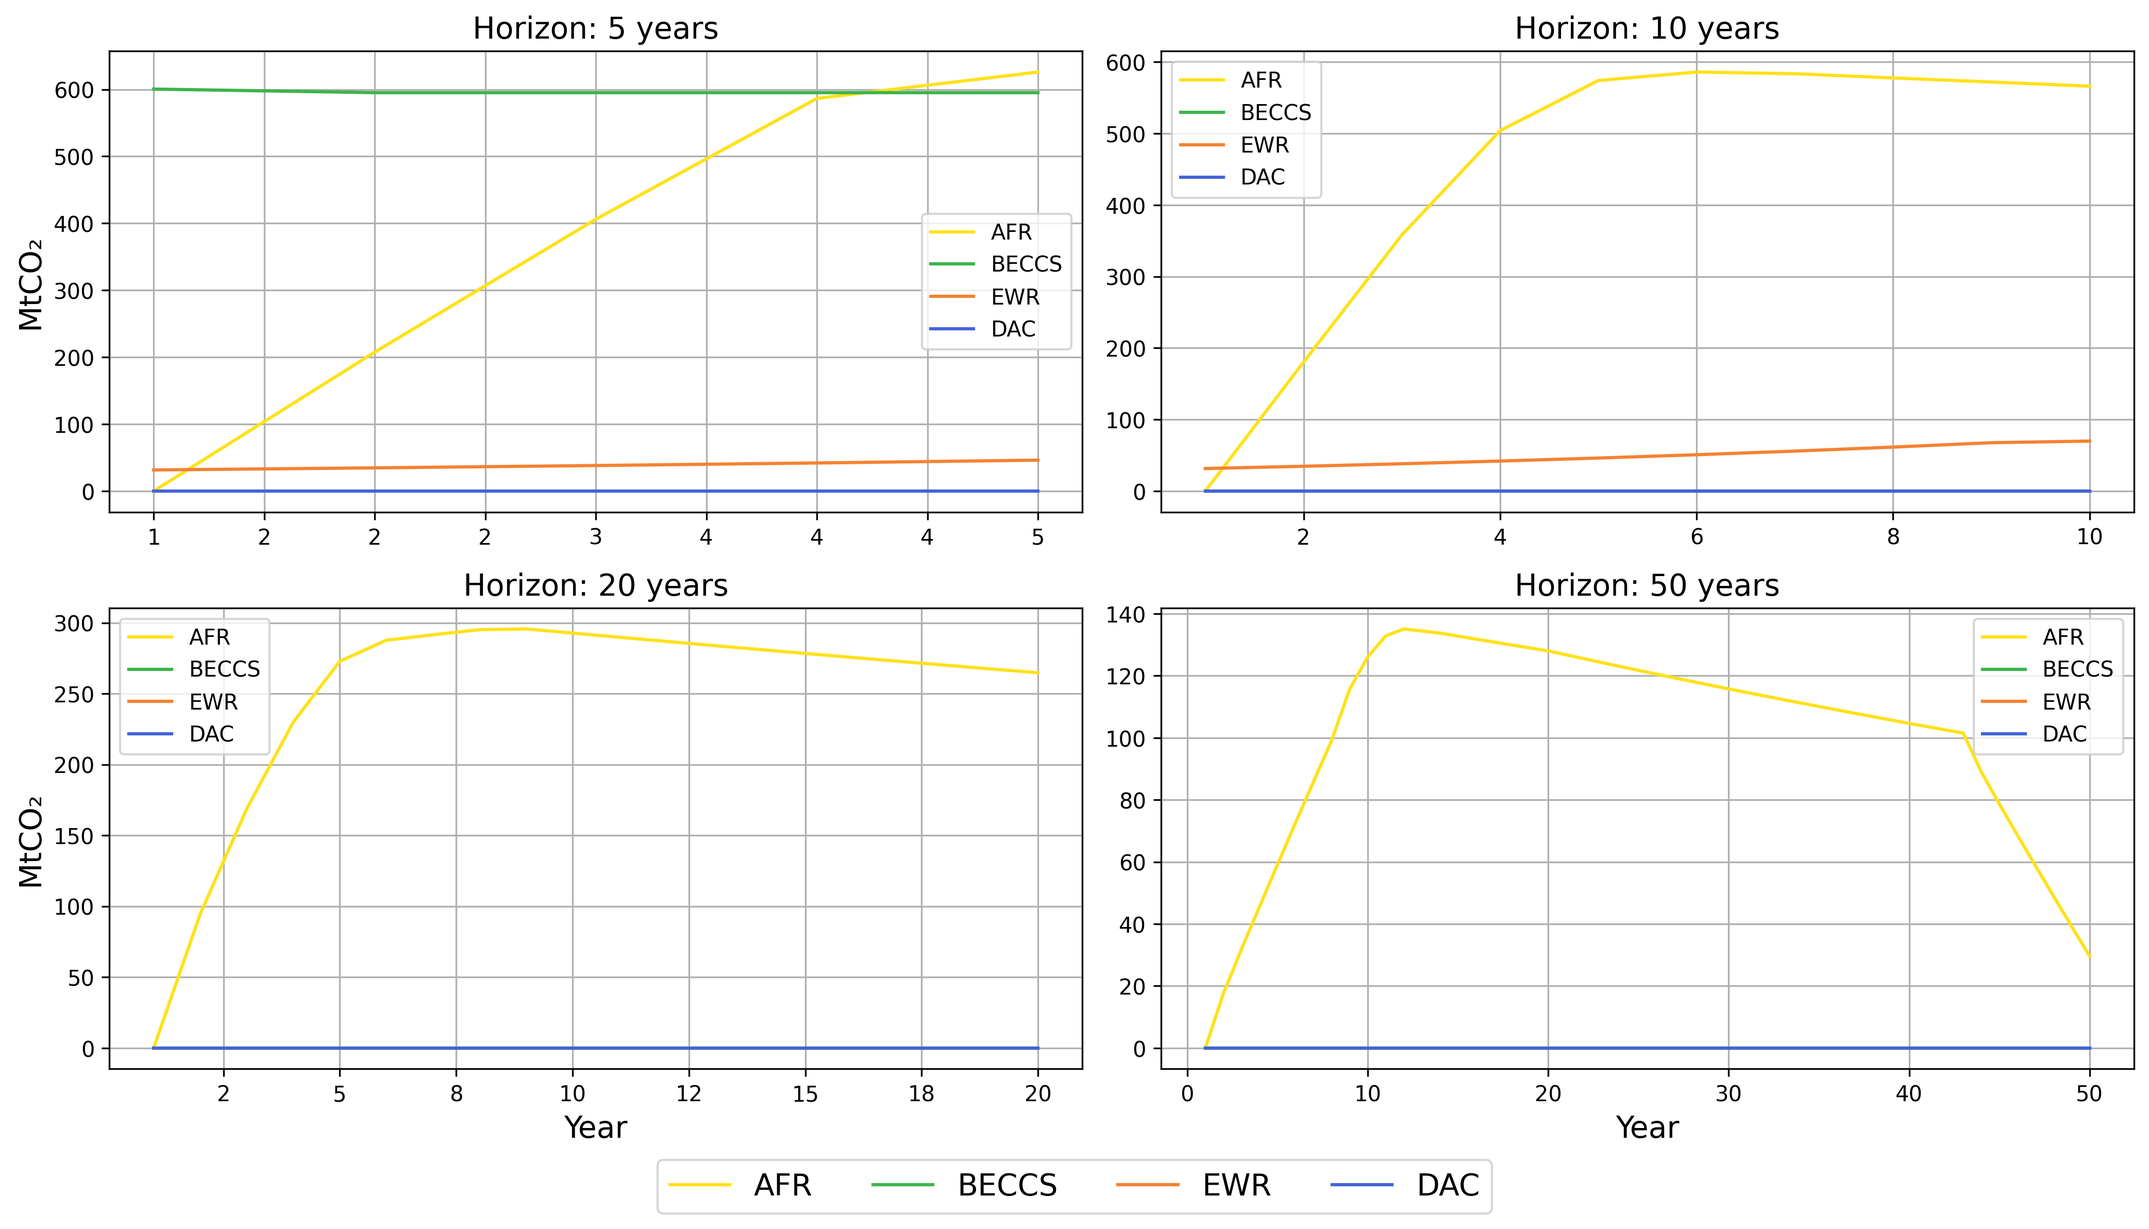
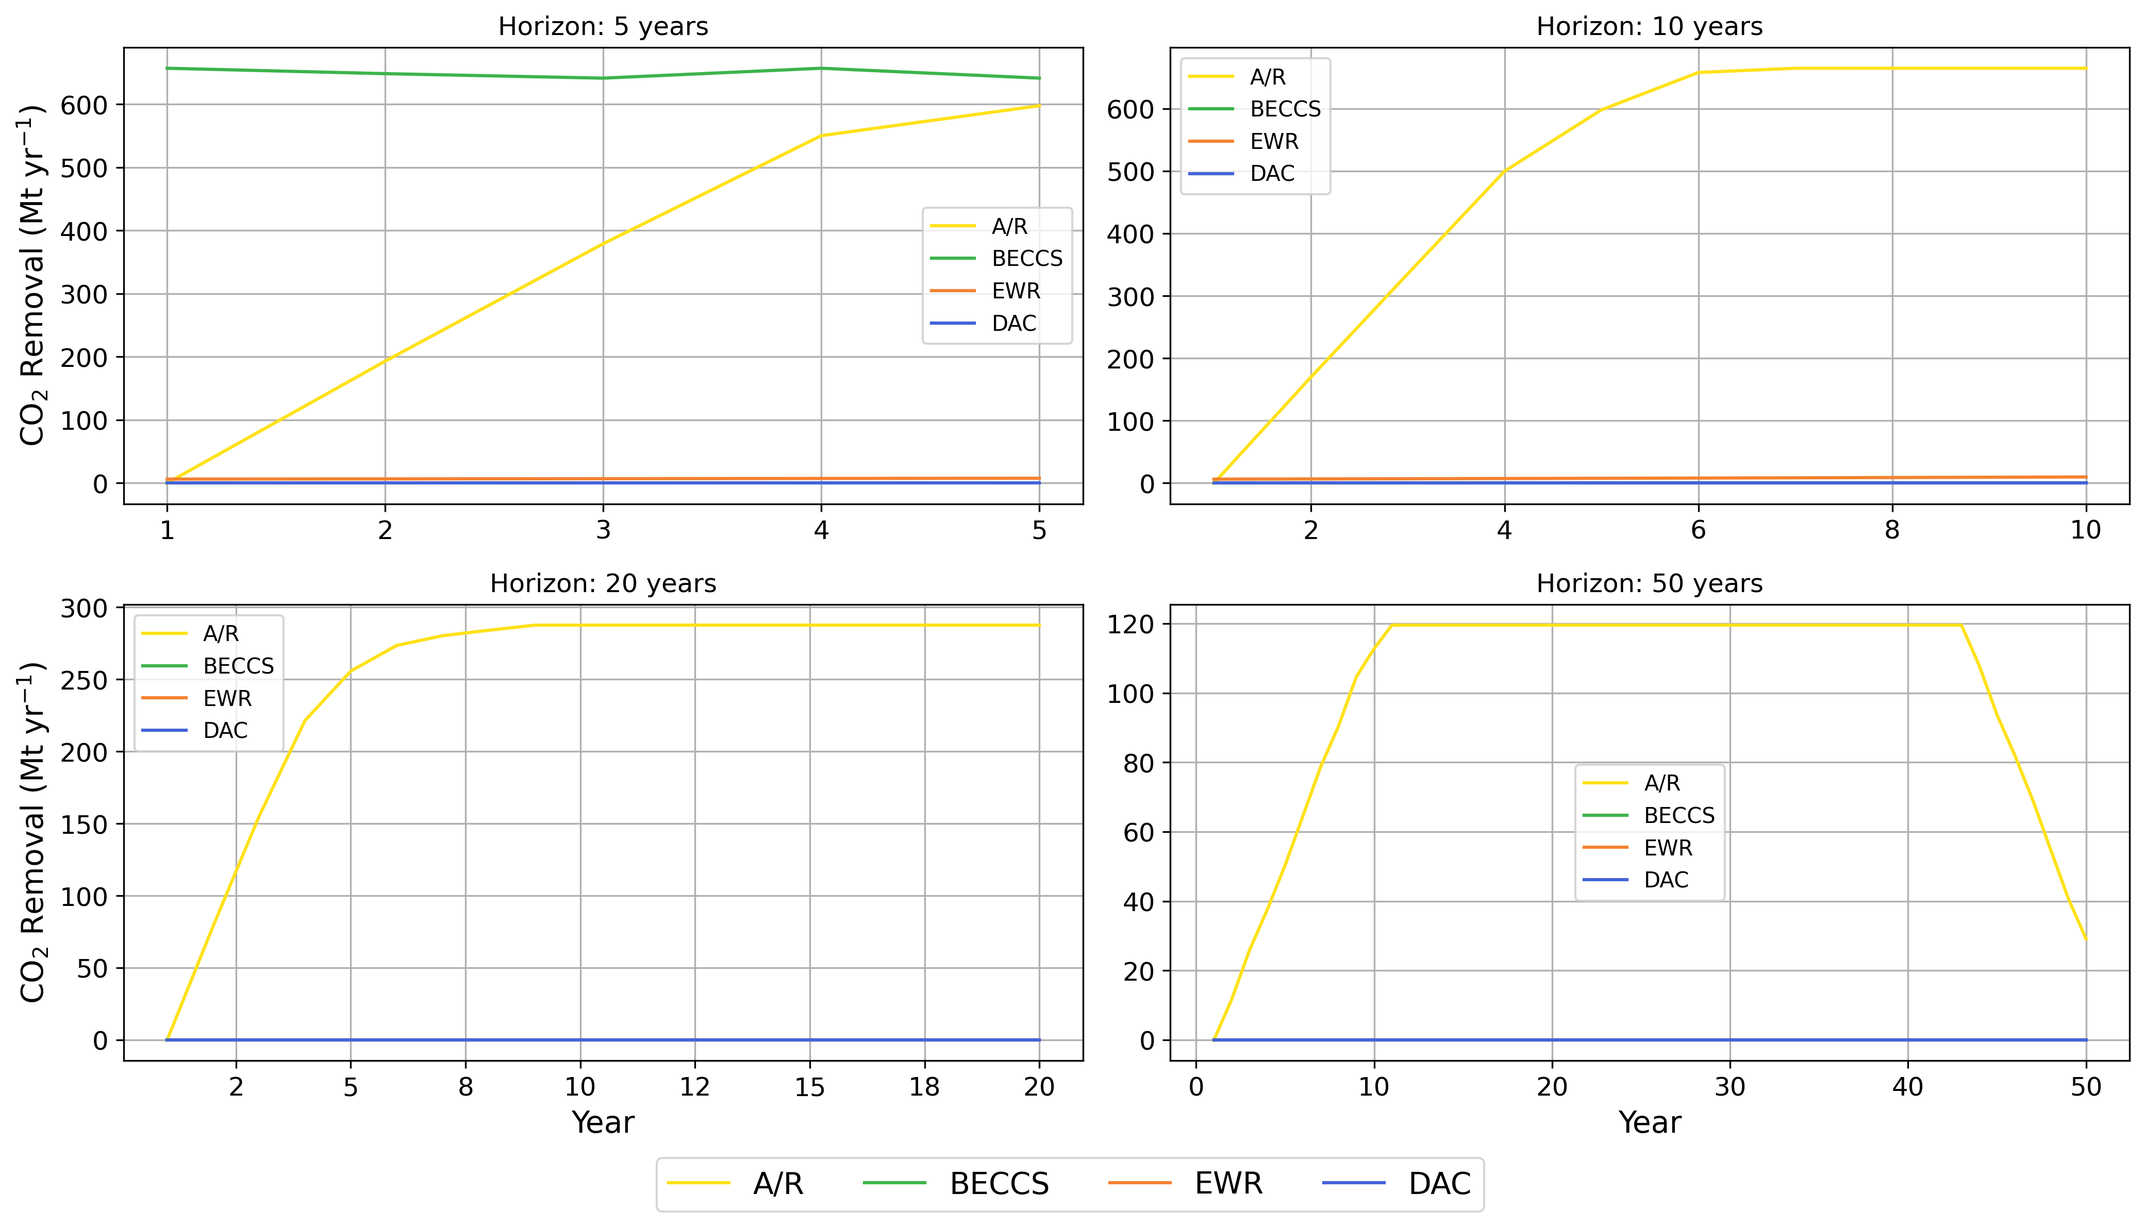
Text as of 07-April-2026

diff --git a/portfolio_development.tex b/portfolio_development.tex
@@ -15,22 +15,6 @@ For the input data, country-level data on the availability and, if relevant, cos
 \include*{ewr}
 \include*{dac}
 
-\section{Overview of modeling results}
-As a summary answer to research question one, Table 3.5 provides an overview of the CDR potential and LCOC ranges of the four approaches modeled in this chapter. Cost and CDR potential generally fall within or close to the ranges of the previous literature (see table 2.2), with the exception of ERW, which was found to be available at a minimum cost about 50\% below the literature estimates.
-\begin{table}[h]
-%\centering
-\small
-\renewcommand{\arraystretch}{1.4}
-\begin{tabular}{lrrr}
-Technology     & \begin{tabular}[c]{@{}l@{}}Lowest LCOC\\ (USD/t CO$_2$)\end{tabular} & \begin{tabular}[c]{@{}l@{}}Highest LCOC\\ (USD/t CO$_2$)\end{tabular} & \begin{tabular}[c]{@{}l@{}}Potential\\ (Gt CO$_2$ / yr)\end{tabular} \\ \hline
-\textbf{A/R}   & 3                                                                    & 88                                                                    & 2,431                                                                \\
-\textbf{BiCRS} & 116                                                                  & 319                                                                   & 4,793                                                                \\
-\textbf{ERW}   &                                                                      &                                                                       & 8,630                                                                \\
-\textbf{DAC}   & 328                                                                  & 527                                                                   & -                                                                    \\ \hline
-\end{tabular}
-\caption{Modeled cost and potential of selected NET}
-\end{table}
-
 \mychapter{4}{Development of optimal global CDR portfolios}
 To construct the ideal portfolios, two types of optimization approaches were considered. First, a simple static portfolio was created, which is based on a one-off removal of a given quantity of carbon dioxide on a given timeline, such as the removal of ten gigatonnes of CO$_2$ over five years. In the second step, this simple static approach was evolved into a dynamic portfolio approach, which considers a changing (increasing) annual requirement of CDR in order to reach certain targets on a certain timeline, such as the annual removal of 10 gigatonnes of CO$_2$ by the year 2050.\vspace{2mm}
 
@@ -57,8 +41,34 @@ These results illustrate the limitations of a simple cost-based approach to sele
 
 \subsection{Dynamic Portfolio}
 
-The dynamic portfolio shows staggering numbers, both, in regard to the total amount of carbon removed until the year 2100, and in regard to the total cost necessary to achieve this target. For comparison, the 855 Gt of CO$_2$ requiring removal over the next 75 years are approximately equivalent to the entire historic emission of humanity until 1990, while the sum of emissions since 1990 amounts to about 1000 Gt \parencite{ritchie_co_2020}.\vspace{2mm}
+The dynamic portfolio shows staggering numbers, both, in regard to the total amount of carbon removed until the year 2100, and in regard to the total investment and operating expenditures necessary to achieve this target. For comparison, the 855 Gt of CO$_2$ requiring removal over the next 75 years are approximately equivalent to the entire historic emission of humanity until 1990, and slightly below the sum of emissions since 1990, which amounts to about 1000 Gt \parencite{ritchie_co_2020}.\vspace{2mm}
 
-The development of the LCOC of the various technologies also provide intersting insights. The nearly flat cost of ERW is caused largely by the modeling constraints, which limit the actual deployment of the technology to a point significantly below the hypothetical potential shown by the MACC, which was developed in section 3.3. The increasing LCOC of A/R, and to a more significant degree, of BECCS, are explained by the fact that the optimizer uses the cheapest potential first, e.g. the tropic rainforests with very fast growth and high biomass accumulation, or the cheaply available manure for BECCS. Once these options are are exhausted, it moves to add the more expensive options from less economical areas or input materials. By the mid-2040s, both, A/R and BECCS, will reach their maximum annual potential. This means that while they will keep contributing significant amounts of CDR, their expansion will be stopped by natural limitations in land and waste biomass availability. Finally, the results show that A/R removals start to decline from the mid-2060s, when all available land is used up and the maturing forests start to absorb less and less CO$_2$ from the atmosphere.\vspace{2mm}
+The development of the LCOC of the various technologies also provides interesting insights. The nearly flat cost of ERW is caused largely by the modeling constraints, which limit the actual deployment of the technology to a point significantly below the hypothetical potential shown by the MACC, which was developed in section 3.3. The increasing LCOC of A/R, and to a more significant degree, of BECCS, are explained by the fact that the optimizer uses the cheapest potential first, e.g. the tropic rainforests with very fast growth and high biomass accumulation, or the cheaply available manure for BECCS. Once these options are are exhausted, it moves to add the more expensive options from less economical areas or input materials. By the mid-2040s, both, A/R and BECCS, will reach their maximum annual potential. This means that while they will keep contributing significant amounts of CDR, their expansion will be stopped by natural limitations in land and waste biomass availability. Finally, the results show that A/R removals start to decline from the mid-2060s, when all available land is used up and the maturing forests start to absorb less and less CO$_2$ from the atmosphere.\vspace{2mm}
 
 Looking at DAC, the fact that its LCOC seems to only decreases slightly despite the sharp drop in the capital expenditures per unit of capacity can be traced to the nature of the learning effects: The amount of DAC capacity constructed under the early, high-cost conditions makes up only a small share of the total DAC capacity. By the time the 100th Mt of capacity is deployed, the cost will already have fallen to below 1000 USD, and by the first Gt, it will be below 500 USD. Additionally, DAC construction begins earlier than the LCOC curve, which only starts from the point where DAC commences operations. Investing in such plants, only for them to sit idle for nearly their entire lifetime, seems counterintuitive. However, it makes sense considering that operating them is still more expensive than using the other NET as long as these can fulfill the annual CDR target. The initial DAC investment therefore occurs largely to build up capacity to be ready when it is required, while "buying down" the average capital expenditures per tonne of capacity. Therefore, these results should be regarded as an encouragement to begin DAC deployment early in order to drive down its costs by the time it is required in significant amounts from the mid-2040s onwards.\vspace{2mm}
+
+\subsection{Interpreting the techno-economic potential and cost}
+Returning to research question one, Table 4.2 provides an overview of the CDR potential and LCOC ranges of the four approaches modeled in this chapter. The models find that afforestation is the cheapest NET overall, with most of the potential being available at below 10 USD / t CO2. However, this potential is limited by the land availability and biomass growth cycle. It therefore dominates in the short-term, but eventually saturates and needs to be replaced by engineered removal options from the mid-2060s onwards.\vspace{2mm}
+
+Enhanced weathering also shows enormous potential of nearly 10 Gt CO2 / yr at costs of no more than 70 USD / t CO2, which is significantly cheaper than the remaining options. However, it is severely limited by the logistical constraints of building what is effectively a large-scale, global mining operation similar in size to the present-day coal industry. Therefore, despite its potential, ERW only makes up about 5\% of the cumulative removals under realistic assumptions, despite being cost-competitive.\vspace{2mm}
+
+The BiCRS approach, represented here by the BECCS model, is a critical in filling the middle period. With a potential of nearly 5 Gt CO2 / yr, it acts as a "bridge" that buys time for DAC to scale up sufficiently. Being available from about 120 dollars, it sits between A/R and ERW on the cheap end and DAC on the expensive side. Also, compared to other approaches, it is the only one with significant co-revenues, in this case from electricity generation, which significantly improve its economics.\vspace{2mm}
+
+Finally, DAC is the most expensive of all options, but plays a critical role in the later part of the century, since it is the only option that has a technically unlimited potential for CDR, being limited virtually only by the energy available.\vspace{2mm}
+
+Compared to the previous literature, as reviewed in section 2, the cost and CDR potential modeled generally fall within or close to the same ranges (see table 2.2), with the exception of ERW, which was found to be available at a minimum cost about 50\% below the literature estimates.
+\begin{table}[h]
+%\centering
+\small
+\renewcommand{\arraystretch}{1.4}
+\begin{tabular}{lrrr}
+Technology     & \begin{tabular}[c]{@{}l@{}}Lowest LCOC\\ (USD/t CO$_2$)\end{tabular} & \begin{tabular}[c]{@{}l@{}}Highest LCOC\\ (USD/t CO$_2$)\end{tabular} & \begin{tabular}[c]{@{}l@{}}Potential\\ (Gt CO$_2$ / yr)\end{tabular} \\ \hline
+\textbf{A/R}   & 3                                                                    & 88                                                                    & 2,431                                                                \\
+\textbf{BiCRS} & 116                                                                  & 319                                                                   & 4,793                                                                \\
+\textbf{ERW}   &  26                                                                    & 67                                                                      & 8,630                                                                \\
+\textbf{DAC}   & 328                                                                  & 527                                                                   & -                                                                    \\ \hline
+\end{tabular}
+\caption{Modeled cost and potential of selected NET}
+\end{table}
+
+\subsection{Interpreting the techno-economic potential and cost}

diff --git a/appendix.tex b/appendix.tex
@@ -147,14 +147,7 @@ solving to
     \vspace*{-\baselineskip}
   \end{center}
 \end{figure}
-\begin{figure}[ht!]
-  \begin{center}
-    \includegraphics[width=0.9\linewidth]{figures/overall_static_optimization_lcoc.png}
-    \caption{Optimal static portfolio - LCOC development}
-    \label{fig:overall_static_optimization_lcoc}
-    \vspace*{-\baselineskip}
-  \end{center}
-\end{figure}
+
 \begin{figure}[ht!]
   \begin{center}
     \includegraphics[width=0.9\linewidth]{figures/annual_static_optimization_lines.png}
@@ -163,43 +156,31 @@ solving to
     \vspace*{-\baselineskip}
   \end{center}
 \end{figure}
-\begin{figure}[ht!]
-  \begin{center}
-    \includegraphics[width=0.9\linewidth]{figures/annual_static_optimization_lcoc.png}
-    \caption{Optimal static portfolio, annual constraint - LCOC development}
-    \label{fig:overall_static_optimization_lines}
-    \vspace*{-\baselineskip}
-  \end{center}
-\end{figure}
 
-\begin{wraptable}{r}{9cm}
+\begin{table}[h]
 \vspace*{-\baselineskip}
 \small
 \renewcommand{\arraystretch}{1.3}
 \begin{tabular}{lllll}
 \textbf{Technology} & \multicolumn{1}{r}{5 years} & 10 years & 20 years & 50 years \\ \hline
-Afforestation       & 57.13                       & 20.19    & 8.99     & 5.26     \\
-BECCS               & 131.38                      & 127.00   & 124.44   & 120.35   \\
-Enhanced Weathering & 25.52                       & 25.52    & 25.52    & 25.52    \\
-Direct Air Capture  & -                           & -        & -        & -       
-\end{tabular}
-\vspace*{-\baselineskip}
-\caption{Average LCOC's - static optimization, annual constraint}
-\vspace*{-1em}
-\end{wraptable}
-
-\begin{wraptable}{l}{9cm}
-\vspace*{-\baselineskip}
-\small
-\renewcommand{\arraystretch}{1.3}
-\begin{tabular}{lllll}
-\textbf{Technology} & \multicolumn{1}{r}{5 years} & 10 years & 20 years & 50 years \\ \hline
-Afforestation       & 58.90                       & 20.24    & 8.14     & 3.30     \\
-BECCS               & 129.97                      & -   & -   & 120.35   \\
+Afforestation       & 58.40                       & 20.26    & 7.35     & 2.63\\
+BECCS               & 130.50                      & -   & -   & -   \\
 Enhanced Weathering & 25.52                       & 25.52    & -    & -    \\
 Direct Air Capture  & -                           & -        & -        & -       
 \end{tabular}
-\vspace*{-\baselineskip}
 \caption{Average LCOC's - static optimization}
-\vspace*{-1em}
-\end{wraptable}
+\end{table}
+
+\begin{table}[h]
+\vspace*{-\baselineskip}
+\small
+\renewcommand{\arraystretch}{1.3}
+\begin{tabular}{lllll}
+\textbf{Technology} & \multicolumn{1}{r}{5 years} & 10 years & 20 years & 50 years \\ \hline
+Afforestation       & 57.20                       & 20.04    & 7.92     & 3.59\\
+BECCS               & 131.76                      & 127.20   & 124.48   & 120.78   \\
+Enhanced Weathering & 25.52                       & 25.52    & 25.52    & 25.52    \\
+Direct Air Capture  & -                           & -        & -        & -       
+\end{tabular}
+\caption{Average LCOC's - static optimization, annual constraint}
+\end{table}

diff --git a/stat_port.tex b/stat_port.tex
@@ -161,7 +161,7 @@ x_t^4I_t^4 \leq \barbelow{x}^4I_t^4 + x_t^4\bar{I}^4 - \barbelow{x}^4\bar{I}^4,
 where the lower and upper bounds are denoted by $(\barbelow{x}^4, \bar{x}^4)$ and $(\barbelow{I}^4, \bar{I}^4)$, respectively. This yields a linear relaxation of the CapEx term around the bilinear identity. In more simple terms, the DAC CapEx term is a product of two decision variables, the amount of capacity constructed in a given year ($x_t^4$), and the unit investment cost $I_t^4$, which decreases based on the learning from previous years' capacity investments. The resulting bilinearity would turn the optimization problem into a non-convex, non-linear program. The McCormack relaxation is used to avoid this and keep the program computationally feasible in reasonable time, while still sufficiently capturing the interaction between scale-up and learning.
 
 \subsection{Results}
-The result of the first model is shown in figure 4.1. It can be observed that over short time horizons, BECCS dominates the optimal portfolios, while A/R dominates the longer time horizons. Enhanced rock weathering only plays a minor role in medium-term portfolios, while DAC is not used at all. Looking at the costs, it can be observed that the longest timeframe is more than an order of magnitude cheaper than the shortest timeframe.\vspace{2mm}
+The result of the first model is shown in figure 4.1. It can be observed that over short time horizons, BECCS dominates the optimal portfolios, while A/R dominates the longer time horizons. Enhanced rock weathering only plays a minimal role in short- and medium-term portfolios, while DAC is not used at all. Looking at the costs, it can be observed that the longest time-frame is more than an order of magnitude cheaper than the shortest timeframe.\vspace{2mm}
 
 \begin{figure}[ht!]
   \begin{center}
@@ -172,7 +172,7 @@ The result of the first model is shown in figure 4.1. It can be observed that ov
   \vspace*{-\baselineskip}
 \end{figure}
 
-The results of the second model (Fig 4.2) are similar, but still show a significant deployment of BECCS in the medium timeframes. For a comparison of the different NET contributions and over time the LCOC development, see Appendix A.3.\vspace{2mm}
+The results of the second model (Fig 4.2) are similar, albeit at a lower cost starting from the 10 year time horizon, and with a significant deployment of BECCS in the medium time-frames. Most notably, however, the 50 year time horizont now creates a significant overshoot over the target of 5 Gt. A detailed comparison of the different NET contributions over the four different time horizons is shown in Appendix A.4.\vspace{2mm}
 
 \begin{figure}[ht!]
   \begin{center}

diff --git a/dyn_port.tex b/dyn_port.tex
@@ -115,11 +115,11 @@ The resulting portfolio, shown in figure 4.3, is the direct answer to the second
 \renewcommand{\arraystretch}{1.4}
 \begin{tabular}{lrrr}
 Technology     & \multicolumn{1}{l}{Amount removed (Mt)} & \multicolumn{1}{l}{Total cost (B US\$)} & \multicolumn{1}{l}{Average LCOC (US\$)} \\ \hline
-\textbf{A/R}   & 97,250                                  & 1,809                                  & 18.60                                  \\
-\textbf{ERW}   & 45,177                                  & 1,257                                  & 27.82                                  \\
-\textbf{BiCRS} & 309,081                                 & 46,407                                 & 150.15                                 \\
-\textbf{DAC}   & 403,123                                 & 86,623                                 & 214.88                                 \\ \hline
-\textbf{Total} & 854,631                                 & 136,096                                & 159.25                                 \\ \hline
+\textbf{A/R}   & 105,558                                  & 1,080                                  & 10.23                                  \\
+\textbf{ERW}   & 46,154                                  & 1,284                                  & 27.82                                  \\
+\textbf{BiCRS} & 280,125                                 & 29,744                                 & 106.18                                 \\
+\textbf{DAC}   & 446,444                                 & 110,900                                 & 248.41                                 \\ \hline
+\textbf{Total} & 878,281                                 & 136,096                                & 154.96                                 \\ \hline
 \end{tabular}
 \captionof{table}{Breakdown of amounts removed and cost by NET}
 \end{table}
